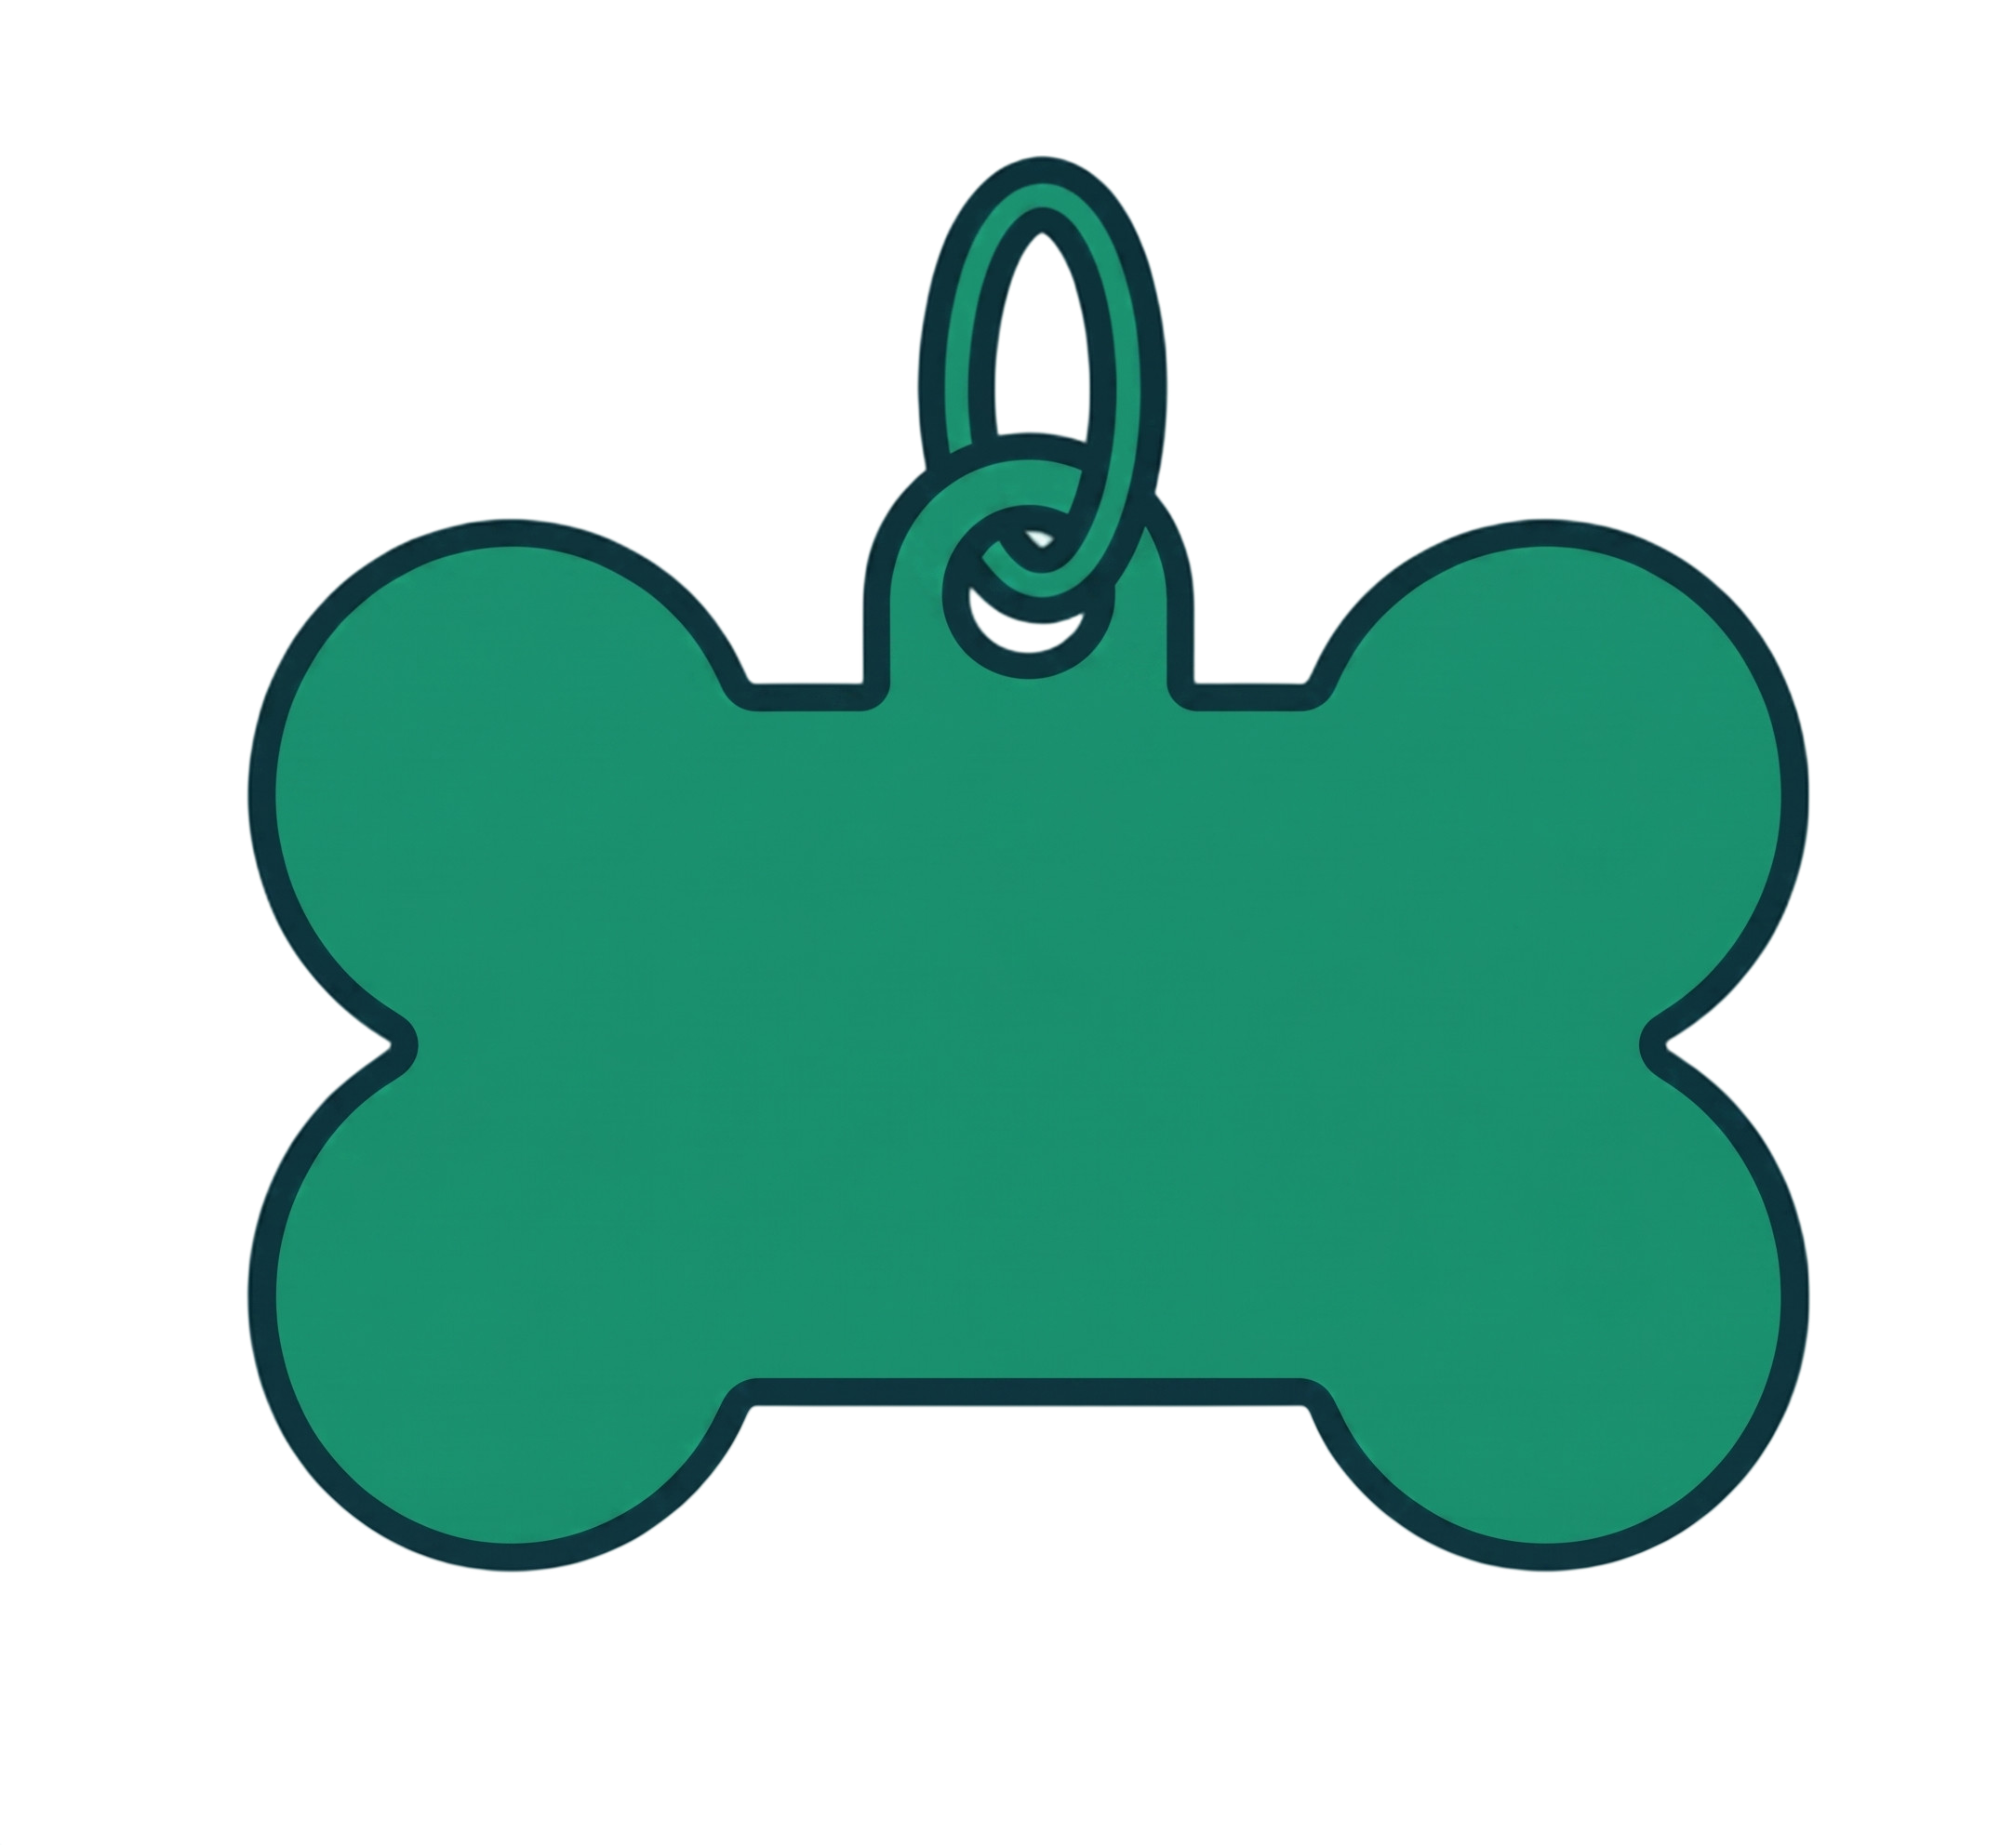
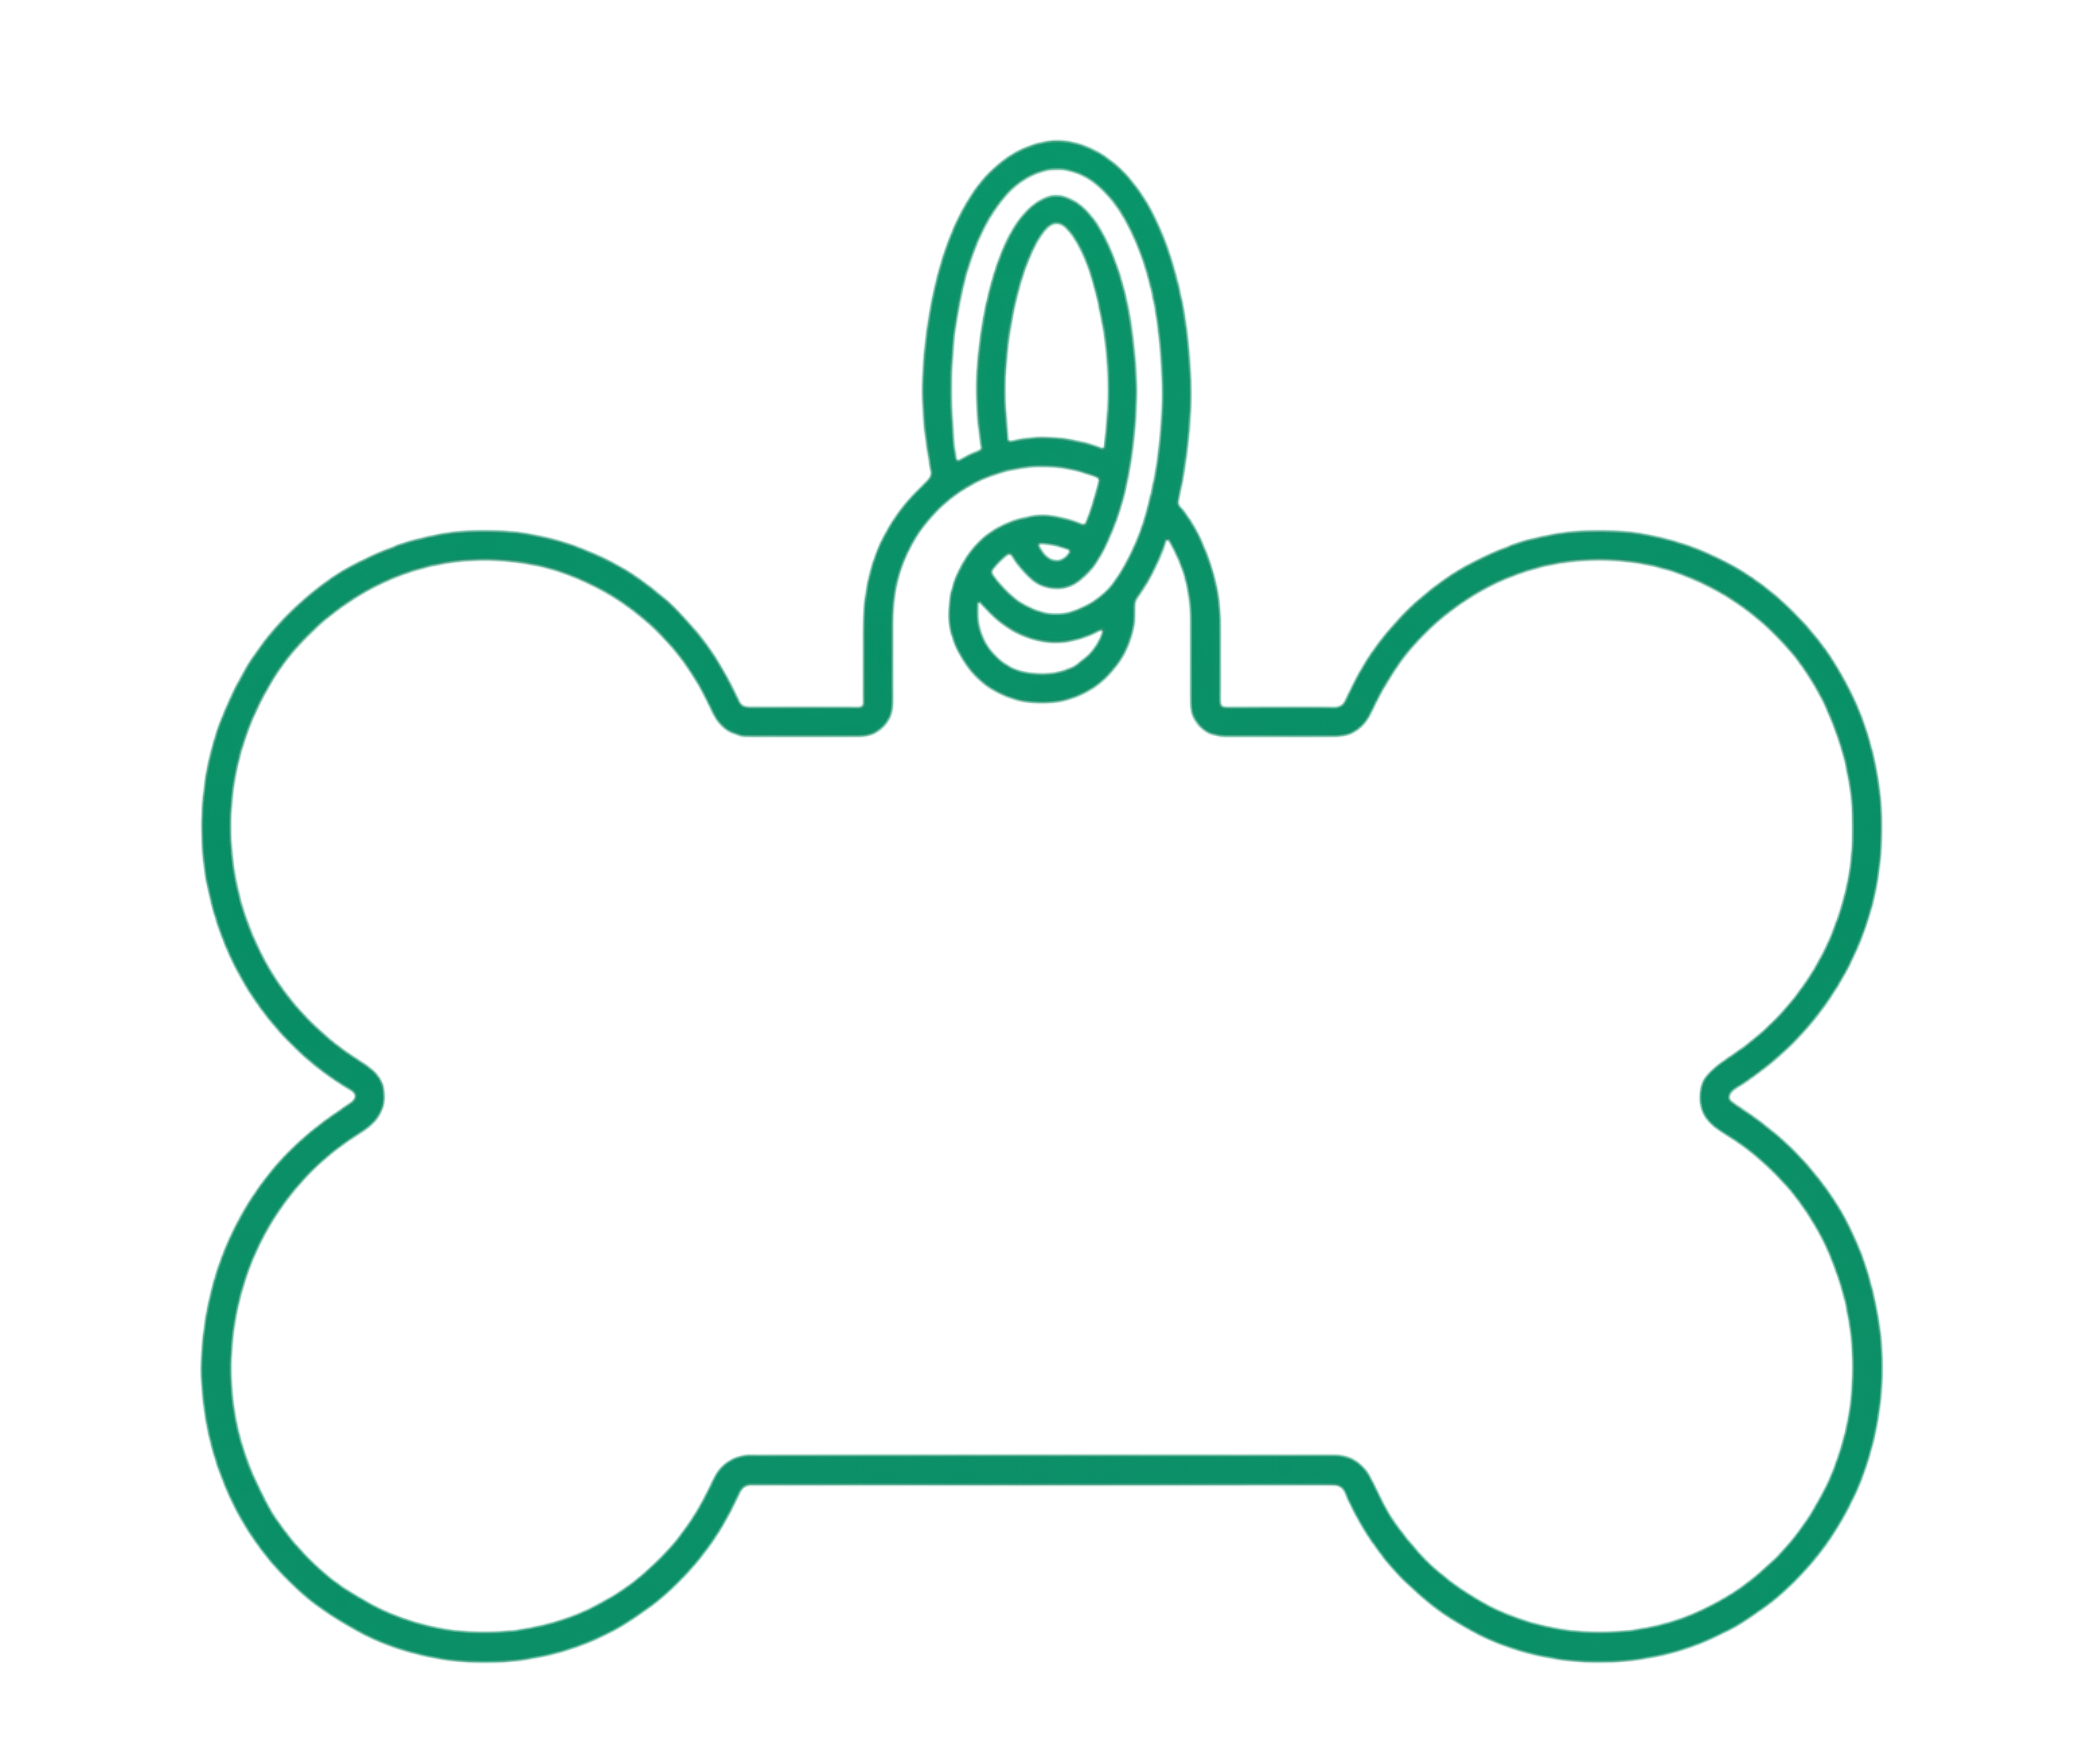
fix: imagens voltaram a aparecer no modal

diff --git a/app/view/components/Cadastro/Modal/ModalSelectList.tsx b/app/view/components/Cadastro/Modal/ModalSelectList.tsx
@@ -5,12 +5,14 @@ import {
   Text,
   TouchableOpacity,
   View,
+  Image,
   Pressable,
+  ImageSourcePropType,
 } from "react-native";
 import { LIMIT_ITEM_PAGE } from "../../../../config/consts";
 import Pagination from "../List/Pagination";
 import BarraDePesquisa from "../../SearchBarra/BarraDePesquisa";
-import { ThemeColors, useThemedStyles} from "../../../Themes/ThemeProvider";
+import { ThemeColors, useThemedStyles } from "../../../Themes/ThemeProvider";
 
 interface ModalSelectListProps {
   items: any[] | null | undefined;
@@ -18,6 +20,7 @@ interface ModalSelectListProps {
   onClose: () => void;
   onSelect: (item: any) => void;
   titulo: string;
+  itemIcon?: ImageSourcePropType;
   page: number;
   total: number;
   setPage: (page: number) => void;
@@ -29,7 +32,8 @@ export default function ModalSelectList({
   isOpen,
   onClose,
   onSelect,
-  titulo, 
+  titulo,
+  itemIcon,
   page,
   total,
   setPage,
@@ -38,11 +42,16 @@ export default function ModalSelectList({
   const s = useThemedStyles(styles);
 
   return (
-    <Modal visible={isOpen} transparent animationType="fade" onRequestClose={onClose}>
+    <Modal
+      visible={isOpen}
+      transparent
+      animationType="fade"
+      onRequestClose={onClose}
+    >
       <Pressable style={s.overlay} onPress={onClose}>
         <Pressable style={s.modalContent} onPress={() => {}}>
           <View style={s.modalHeader}>
-            <Text style={s.modalTitle}>{titulo}</Text> 
+            <Text style={s.modalTitle}>{titulo}</Text>
             <TouchableOpacity style={s.closeBtn} onPress={onClose}>
               <Text style={s.closeIcon}>✕</Text>
             </TouchableOpacity>
@@ -50,15 +59,20 @@ export default function ModalSelectList({
 
           <View style={s.searchWrap}>
             <BarraDePesquisa
-              placeHolderStr={`Pesquisar...`} 
+              placeHolderStr={`Pesquisar...`}
               setSearch={setSearch}
             />
           </View>
 
           <FlatList
             data={items}
+            contentContainerStyle={s.listContent}
             renderItem={({ item }) => (
-              <TouchableOpacity style={s.itemRow} onPress={() => onSelect(item)}>
+              <TouchableOpacity
+                style={s.itemRow}
+                onPress={() => onSelect(item)}
+              >
+                {itemIcon && <Image source={itemIcon} style={s.itemIconRow} />}
                 <Text style={s.itemText}>{item.nome}</Text>
               </TouchableOpacity>
             )}
@@ -161,13 +175,21 @@ const styles = (colors: ThemeColors) =>
       paddingVertical: 4,
     },
     itemRow: {
+      flexDirection: "row",
       paddingHorizontal: 20,
       paddingVertical: 15,
       borderBottomWidth: 1,
-      borderBottomColor: colors.BORDER_MID, 
+      borderBottomColor: colors.BORDER_MID,
+    },
+    itemIconRow: {
+      width: 24, 
+      height: 24,
+      marginRight: 12, 
+      resizeMode: "contain",
     },
     itemText: {
       fontSize: 16,
       color: colors.TEXT_PRIMARY,
     },
+  
   });

diff --git a/app/view/pages/Pet/NewOrEditPet.tsx b/app/view/pages/Pet/NewOrEditPet.tsx
@@ -5,6 +5,7 @@ import {
   Text,
   TouchableOpacity,
   View,
+  ImageSourcePropType
 } from "react-native";
 
 import {
@@ -115,6 +116,7 @@ export default function NewOrEditPet({ petToEdit }: { petToEdit?: Pet }) {
   const [modalConfig, setModalConfig] = useState({
     visivel: false,
     titulo: "",
+    itemIcon: undefined as ImageSourcePropType | undefined,
     lista: [] as any[],
     aoSelecionar: (item: any) => {},
   });
@@ -122,15 +124,18 @@ export default function NewOrEditPet({ petToEdit }: { petToEdit?: Pet }) {
   const abrirModal = ({
     titulo,
     lista,
+    itemIcon,
     aoSelecionar,
   }: {
     titulo: string;
+    itemIcon?: ImageSourcePropType;
     lista: any[];
     aoSelecionar: (item: any) => void;
   }) => {
     setModalConfig({
       visivel: true,
       titulo: titulo,
+      itemIcon: itemIcon,
       lista: lista,
       aoSelecionar: (item) => {
         aoSelecionar(item);
@@ -182,6 +187,7 @@ export default function NewOrEditPet({ petToEdit }: { petToEdit?: Pet }) {
               onPress={() =>
                 abrirModal({
                   titulo: "Selecionar Dono",
+                  itemIcon: require("../../../assets/animais/iconDono.png"),
                   lista: owners || [],
                   aoSelecionar: (item) => {
                     atualizarValores("dono_id", item.id);
@@ -217,6 +223,7 @@ export default function NewOrEditPet({ petToEdit }: { petToEdit?: Pet }) {
               onPress={() =>
                 abrirModal({
                   titulo: "Selecionar Raça",
+                  itemIcon: require("../../../assets/animais/iconPata.png"),
                   lista: racasList || [],
                   aoSelecionar: (item) => {
                     atualizarValores("raca", item.id);
@@ -272,6 +279,7 @@ export default function NewOrEditPet({ petToEdit }: { petToEdit?: Pet }) {
         isOpen={modalConfig.visivel}
         items={modalConfig.lista}
         titulo={modalConfig.titulo}
+        itemIcon={modalConfig.itemIcon}
         onSelect={modalConfig.aoSelecionar}
         onClose={() => setModalConfig((prev) => ({ ...prev, visivel: false }))}
         page={page}
